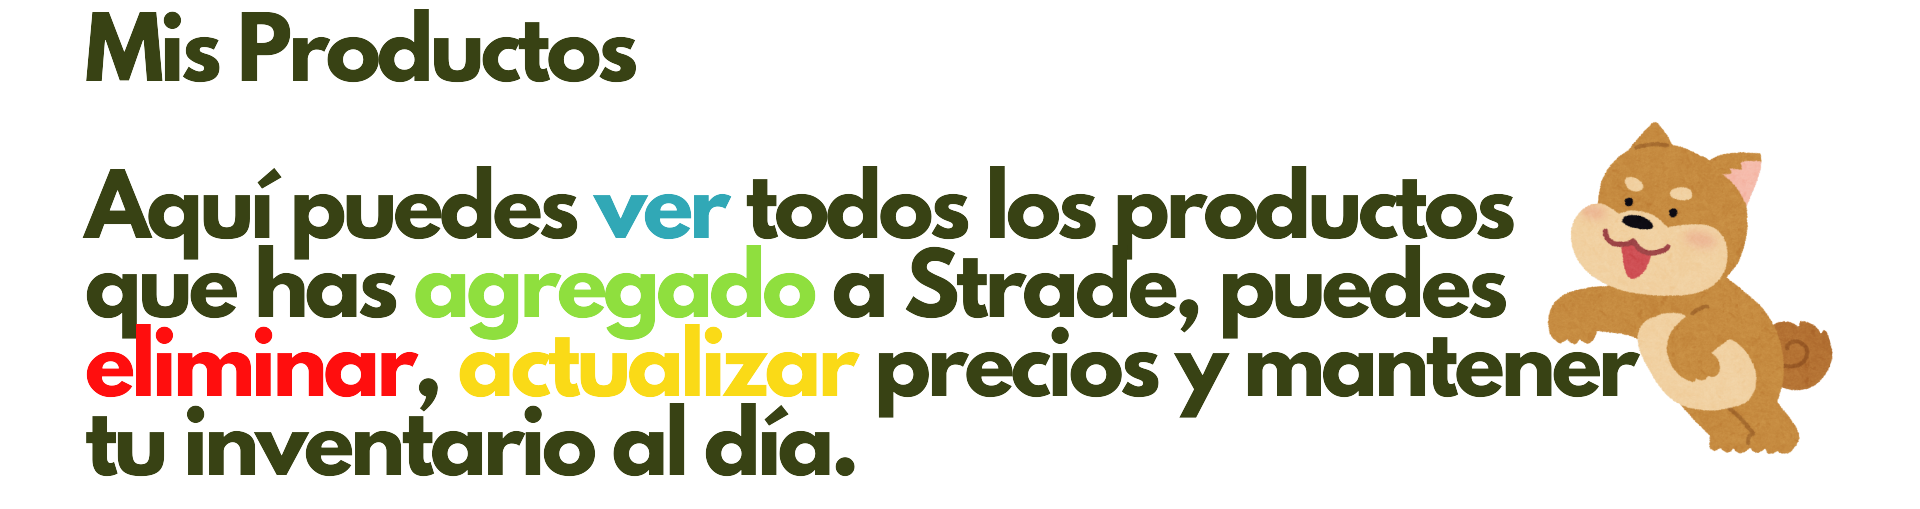
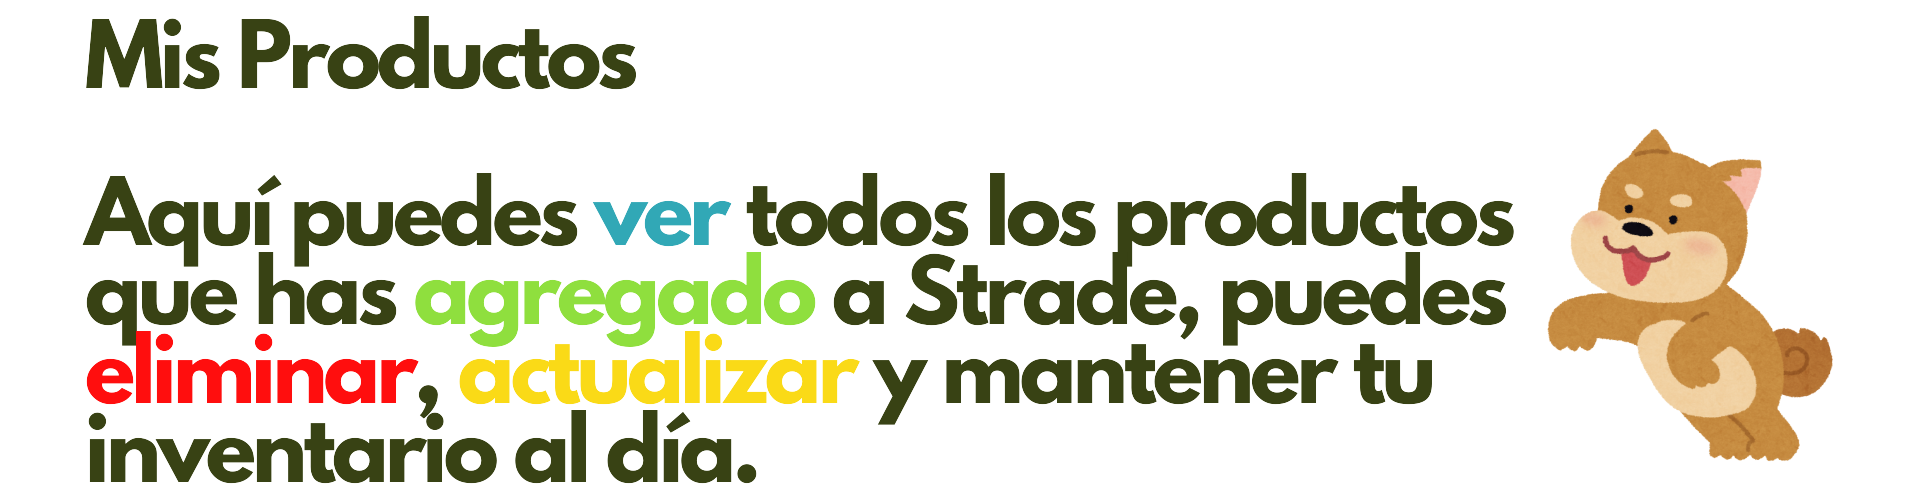
cerrar sesion condicionado

Changed region(s): [[0.0312, 0.2414, 0.9688, 0.996], [0.0312, 0.0, 0.3438, 0.1811], [0.5, 0.332, 0.5312, 0.3622]]

diff --git a/src/components/Layout/Navbar.vue b/src/components/Layout/Navbar.vue
@@ -123,20 +123,19 @@ onMounted(() => {
         </div>
       </div>
       <!-- Elementos desktop (ocultos en móvil) -->
+<!-- Botones de usuario (ocultos en móvil) -->
+<div v-if="authStore.user" class="hidden md:flex items-center gap-3">
+  <button @click="confirmLogout" class="px-3 py-1 bg-green-700 text-white rounded hover:bg-green-600">
+    Cerrar Sesión
+  </button>
 
+  <RouterLink :to="`/perfil/${authStore.user.id}`">
+    <div class="bg-yellow-500 w-8 h-8 rounded-full overflow-hidden">
+      <img :src="authStore.user.userProfile?.imagenPerfil" alt="Foto de perfil" class="w-full h-full object-cover" />
+    </div>
+  </RouterLink>
+</div>
 
-      <!-- Botones de usuario (ocultos en móvil) -->
-      <div class="hidden md:flex items-center gap-3">
-        <button @click="confirmLogout" class="px-3 py-1 bg-green-700 text-white rounded hover:bg-green-600">
-          Cerrar Sesión
-        </button>
-
-        <RouterLink :to="authStore.user?.id ? `/perfil/${authStore.user?.id}` : '/login'">
-          <div class="bg-yellow-500 w-8 h-8 rounded-full overflow-hidden">
-            <img :src="user?.userProfile?.imagenPerfil" alt="Foto de perfil" class="w-full h-full object-cover" />
-          </div>
-        </RouterLink>
-      </div>
 
       <!-- Botón hamburguesa (solo móvil) -->
       <button @click="isOpen = !isOpen" class="md:hidden p-2 rounded-md text-green-800 focus:outline-none">
